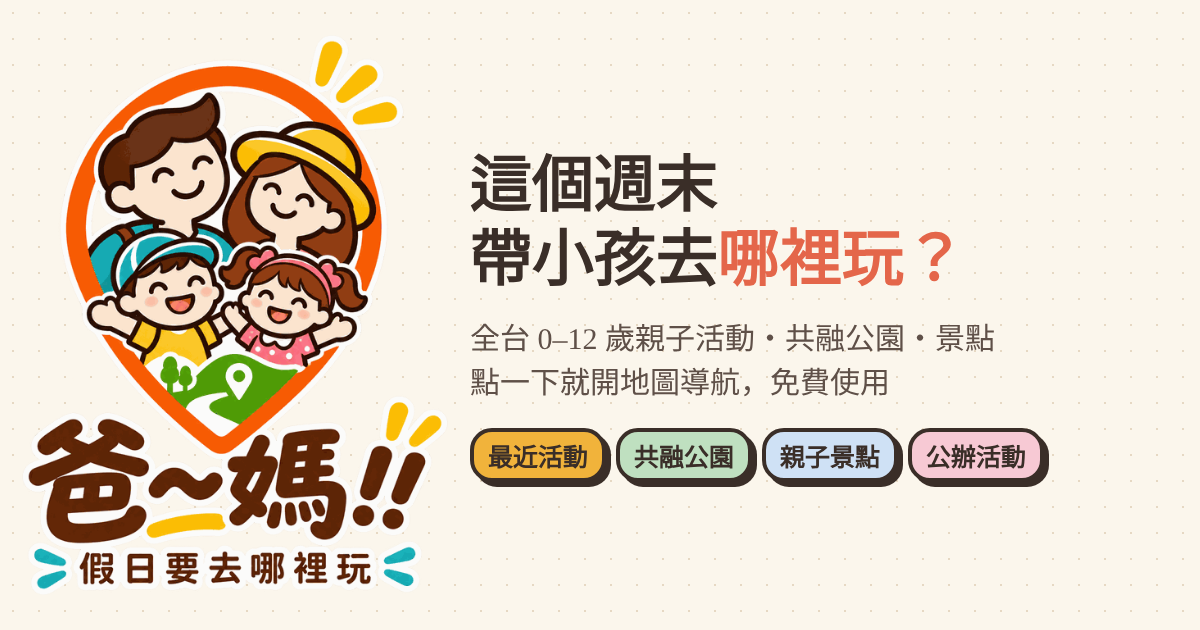
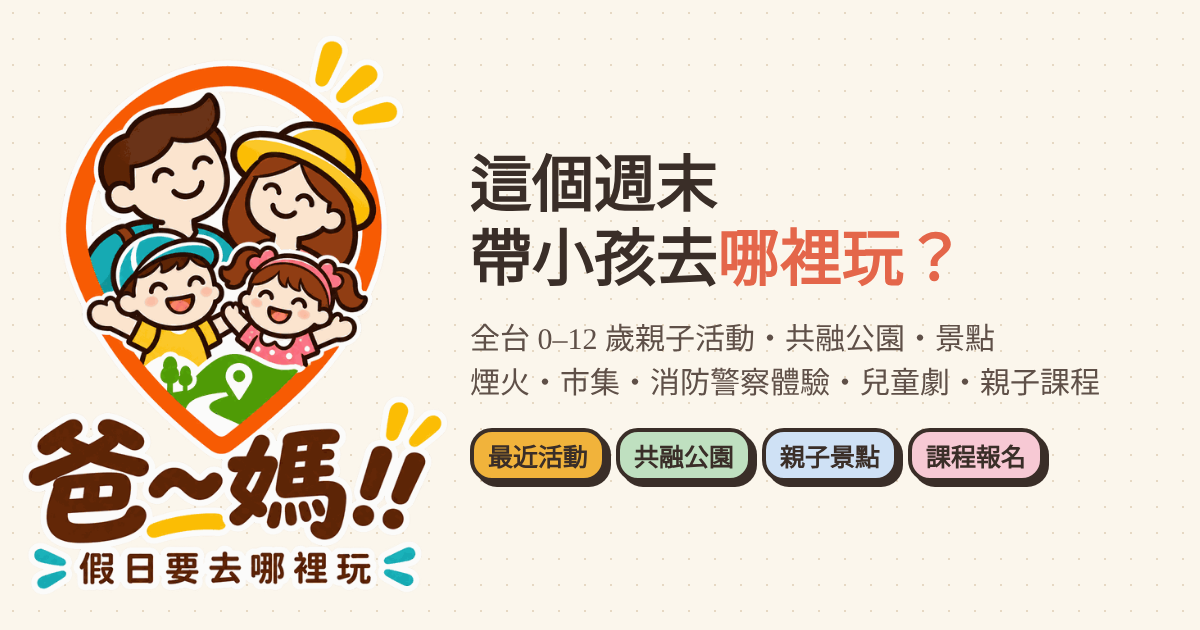
分享預覽圖修正（課程報名、煙火市集消防警察），og:image 改 v=3 讓社群重新抓圖
Claude-Session: https://claude.ai/code/session_01JLyucFsCF3cmGpkmtqjLJH

Changed region(s): [[0.37, 0.573, 0.925, 0.6333], [0.7708, 0.6937, 0.8633, 0.754]]

diff --git a/index.html b/index.html
@@ -11,7 +11,7 @@
 <meta property="og:title" content="爸~媽!!假日要去哪裡玩｜全台親子活動・共融公園・親子景點">
 <meta property="og:description" content="這個週末帶小孩去哪？全台親子活動、共融公園、景點和親子課程報名一次找，依年齡和縣市篩選，點一下開地圖導航。">
 <meta property="og:url" content="https://baba-mama.pages.dev/">
-<meta property="og:image" content="https://baba-mama.pages.dev/og.png?v=2">
+<meta property="og:image" content="https://baba-mama.pages.dev/og.png?v=3">
 <meta property="og:image:width" content="1200">
 <meta property="og:image:height" content="630">
 <meta property="og:locale" content="zh_TW">
